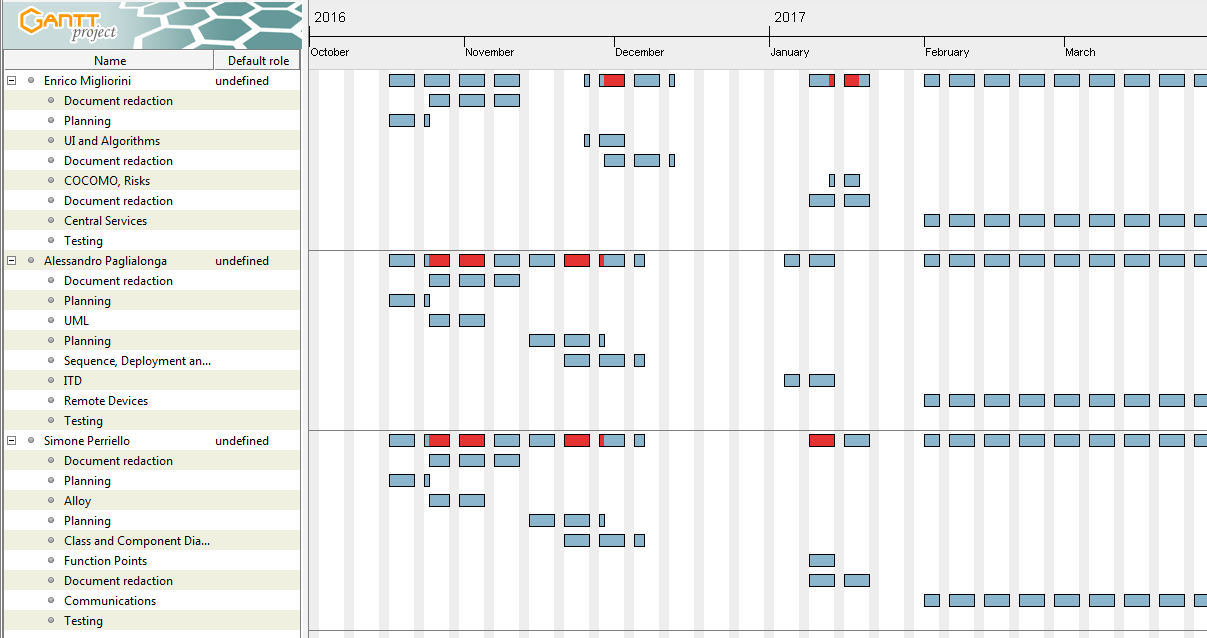
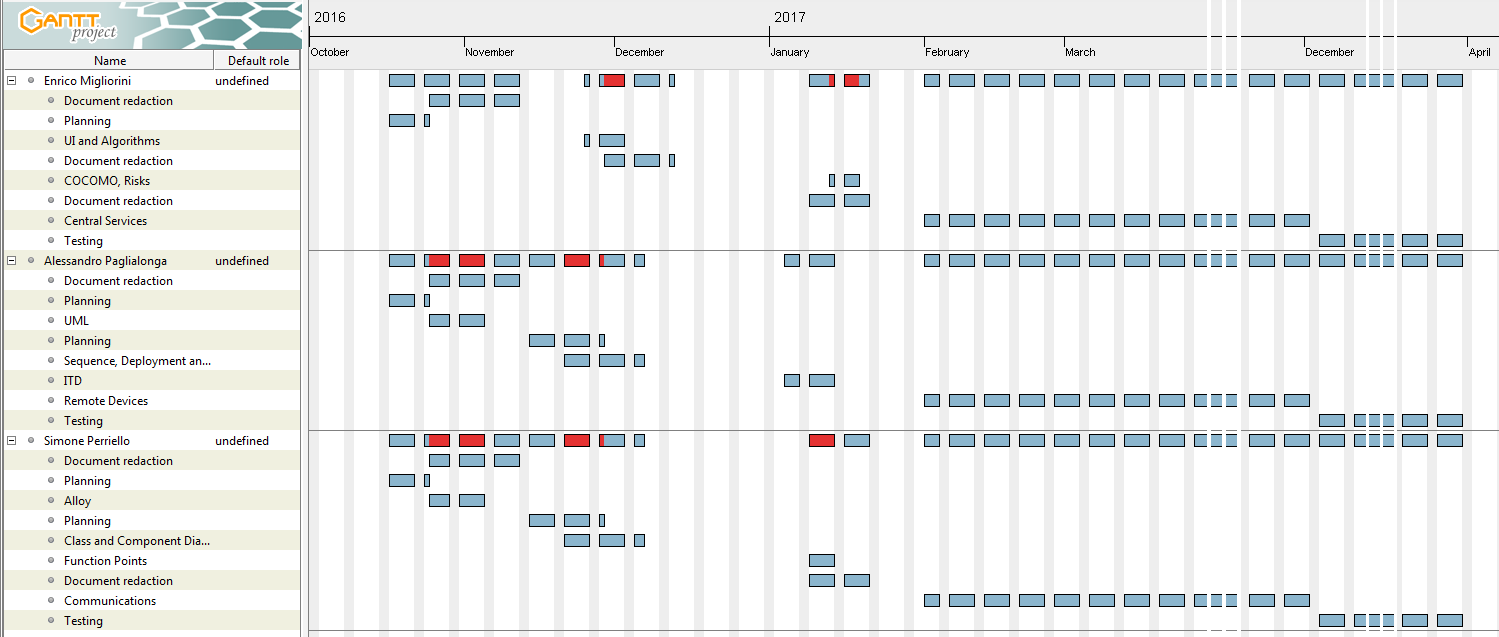
adjusted scheduling images

diff --git a/Phases/PLAN/LaTeX/Scheduling.tex b/Phases/PLAN/LaTeX/Scheduling.tex
@@ -1,9 +1,14 @@
-For each of the required documents, we have split our tasks between ourselves. For the development of the application, we have separated a few large tasks and split them.
+For each of the required documents, we have split our tasks between ourselves. For the development of the application, we have separated a few large tasks and split them. These tasks are corresponding to the most significant and time-consuming work areas:
 
-The following Gantt and resource diagrams show how these has been split. We are using the COCOMO-estimated development time, adjusted to reflect how our preliminary work was corresponding to the "Inception" development phase.
+\begin{description}
+	\item[Central Services] The main Server elaboration platform, including the business logic layer and External Services management.
+	\item[Remote Devices] The mobile app and the Car control device, the latter both in hardware and software.
+	\item[Communication] The Persistence and Communication Layers, managing communication between the Central Services and the Remote Devices.
+\end{description}
+
+The following Gantt and resource diagrams show how these has been split. We are using the COCOMO-estimated development time, adjusted to reflect how our preliminary work was corresponding to the "Inception" development phase. Please not that the development part of the diagram has been cropped for space reasons.
 
 The redaction of the Code Inspection document was not part of the PowerEnJoy project, therefore has not been included.
-\\
 \\
 \begin{table}[h]
 \centering
